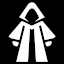
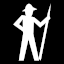
preparations for enchanter

diff --git a/src/interface.hpp b/src/interface.hpp
@@ -192,6 +192,10 @@ namespace Interface
                 {
                     asset = Assets::Copy(Assets::Type::Sage);
                 }
+                else if (party.Members[PlayerId].Class == Character::Class::Enchanter)
+                {
+                    asset = Assets::Copy(Assets::Type::Enchanter);
+                }
 
                 Animate(passable, asset);
 
@@ -1550,6 +1554,10 @@ namespace Interface
                             else if (party.Members[ObjectId].Class == Character::Class::Sage)
                             {
                                 Controls.push_back(Button(NumControls, Assets::Get(Assets::Type::Sage), CtrlLt, CtrlRt, CtrlUp, CtrlDn, AssetX, AssetY, intWH, Control::Type::PLAYER));
+                            }
+                            else if (party.Members[ObjectId].Class == Character::Class::Enchanter)
+                            {
+                                Controls.push_back(Button(NumControls, Assets::Get(Assets::Type::Enchanter), CtrlLt, CtrlRt, CtrlUp, CtrlDn, AssetX, AssetY, intWH, Control::Type::PLAYER));
                             }
                         }
                         else if (Object == TacticalMap::Object::HotCoals)

diff --git a/src/BloodSword.cpp b/src/BloodSword.cpp
@@ -23,9 +23,10 @@ int main(int argc, const char **argv)
         // setup party, monsters, and map
         auto party = Party::Base();
 
-        party.Members.push_back(Character::Create(Character::Class::Warrior, 3));
-        party.Members.push_back(Character::Create(Character::Class::Trickster, 3));
-        party.Members.push_back(Character::Create(Character::Class::Sage, 3));
+        party.Members.push_back(Character::Create(Character::Class::Warrior, 2));
+        party.Members.push_back(Character::Create(Character::Class::Trickster, 2));
+        party.Members.push_back(Character::Create(Character::Class::Sage, 2));
+        party.Members.push_back(Character::Create(Character::Class::Enchanter, 2));
 
         auto monsters = std::vector<Monster::Base>();
 
@@ -38,7 +39,7 @@ int main(int argc, const char **argv)
             "#############",
             "#    3     C#",
             "#### ########",
-            "#   1     2 #",
+            "#4  1     2 #",
             "#% %######  #",
             "#% %#%% B#  #",
             "#D       # A#",

diff --git a/src/assets.hpp b/src/assets.hpp
@@ -15,7 +15,7 @@ namespace Assets
         Warrior,
         Trickster,
         Sage,
-        Wizard,
+        Enchanter,
         Passable,
         Wall,
         Exit,
